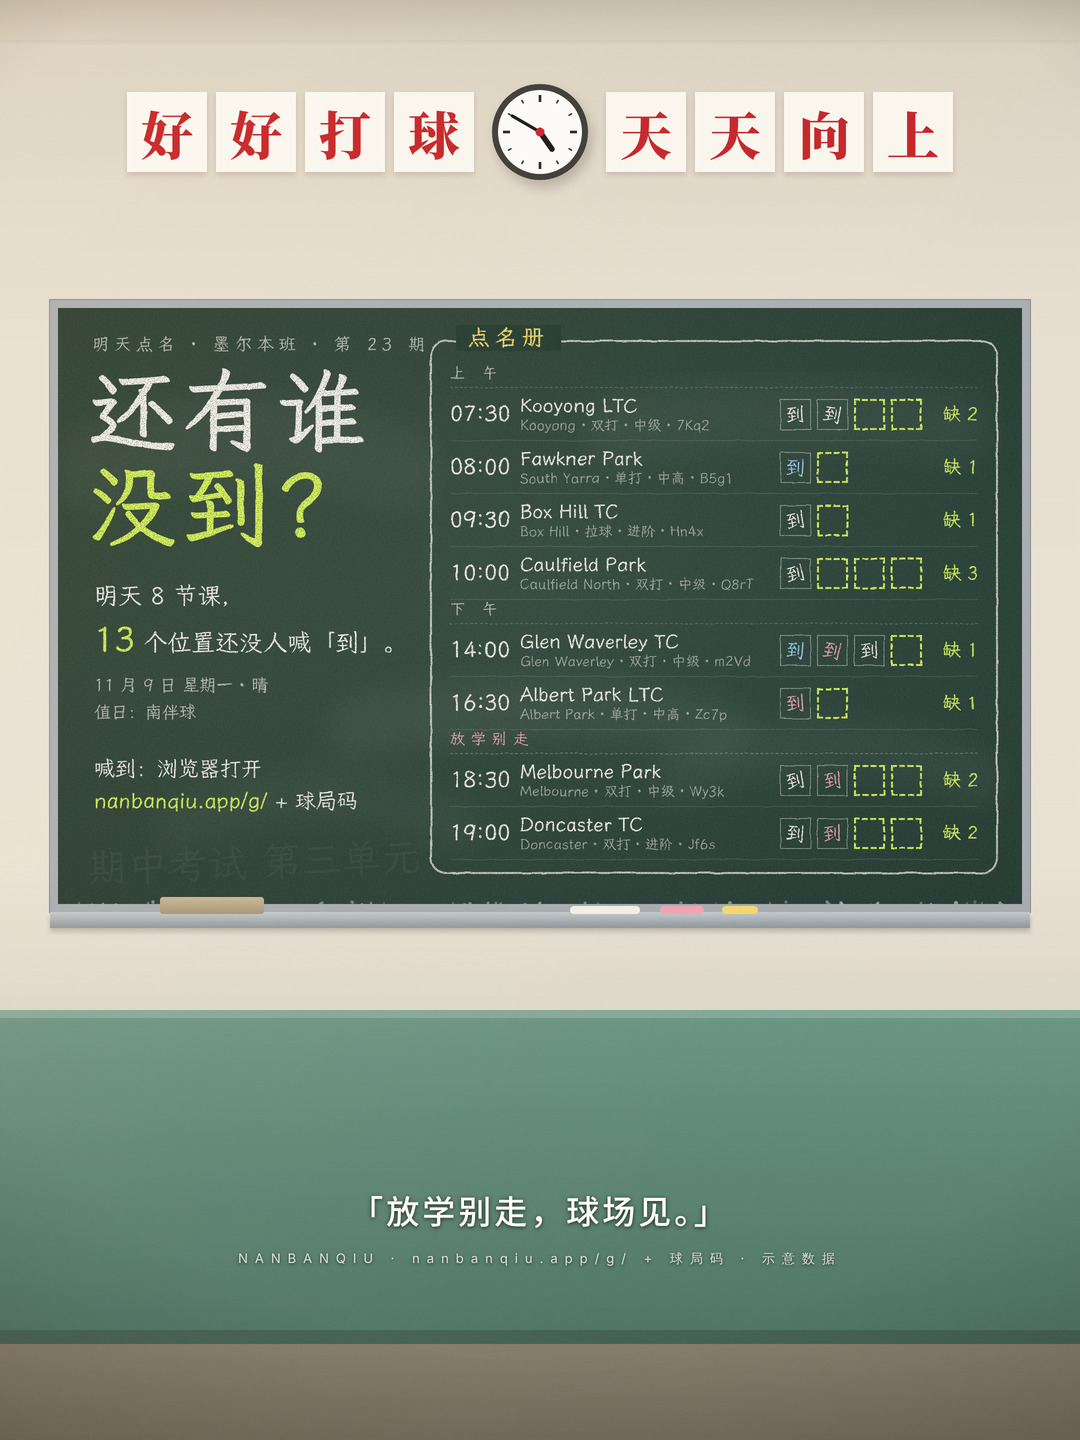
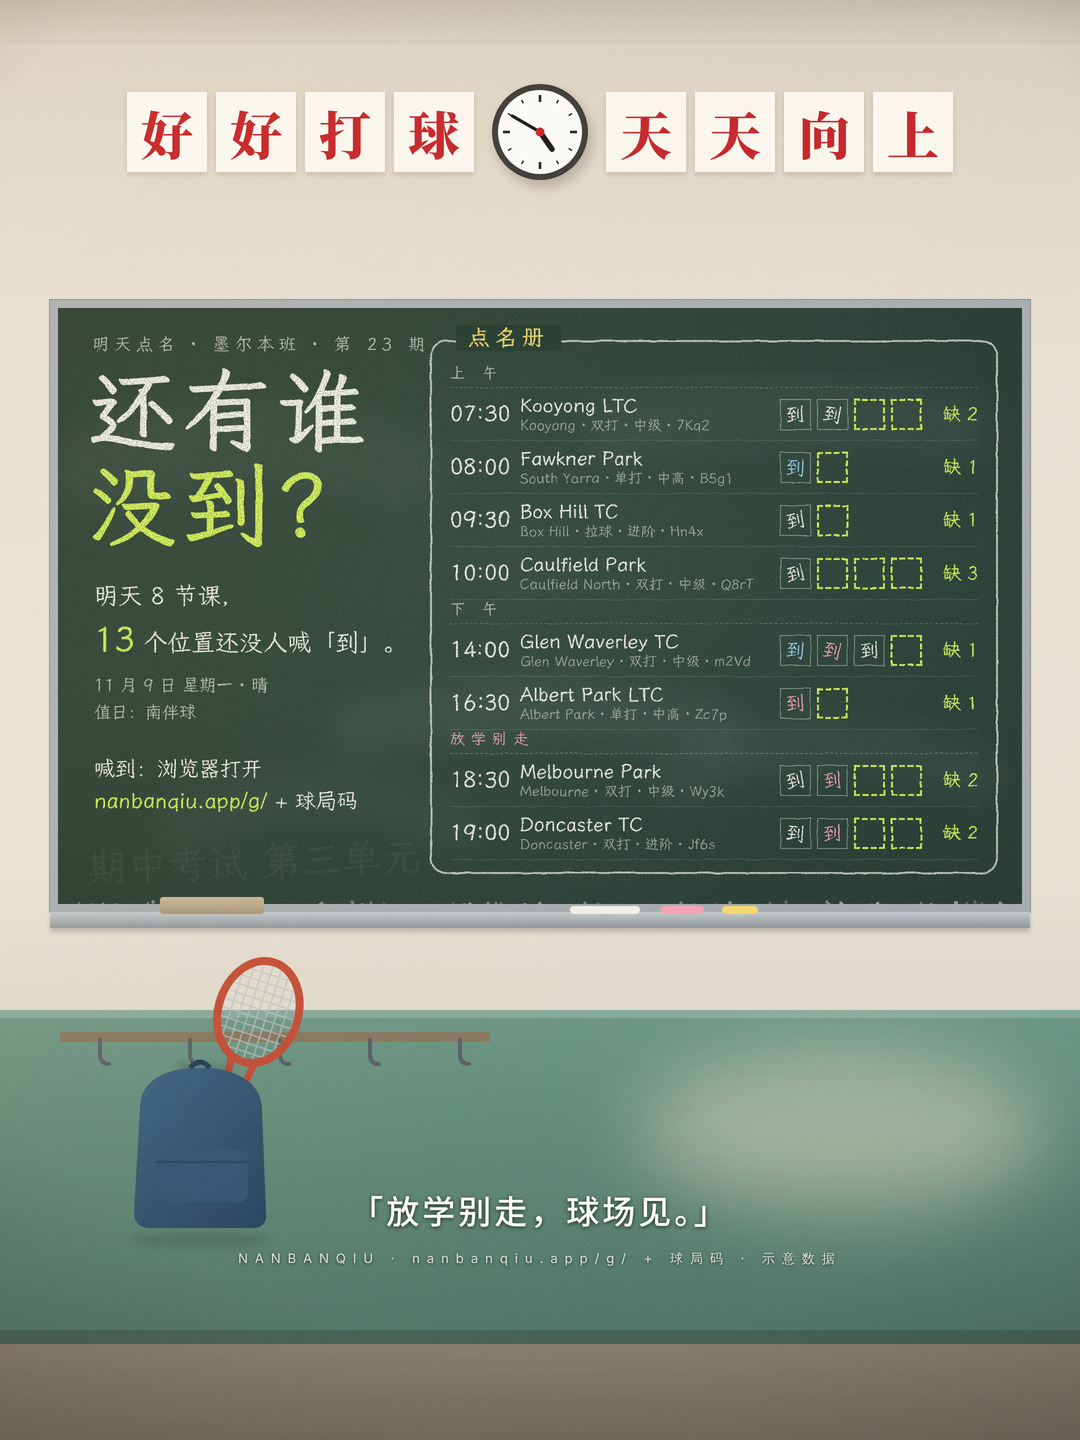
电影镜头安静版：墙裙挂钩 + 一个书包（露出拍头）+ 一小片暖光
出图检查通过。

Claude-Session: https://claude.ai/code/session_014vi3eYkzAwaNbsywDq4bQj

Changed region(s): [[0.5806, 0.7188, 0.9778, 0.8438], [0.0611, 0.6562, 0.4583, 0.875]]

diff --git a/marketing/digest/cinema.py b/marketing/digest/cinema.py
@@ -89,6 +89,20 @@ h1{{position:absolute;left:30px;top:58px;font-size:90px;line-height:1.04;letter-
 <div class="bwrap"><div class="board">
  <svg class="btex" width="964" height="596"><rect width="964" height="596" filter="url(#slate)"/><g filter="url(#sb)">{smear}</g>{ghost}{dust}</svg>
  {board_inner()}</div></div>
+<svg class="layer" width="{W}" height="{H}"><defs><filter id="pb" filterUnits="userSpaceOnUse" x="0" y="0" width="{W}" height="{H}"><feGaussianBlur stdDeviation="38"/></filter>
+ <filter id="hs" filterUnits="userSpaceOnUse" x="0" y="0" width="{W}" height="{H}"><feGaussianBlur stdDeviation="4"/></filter>
+ <linearGradient id="bagc" x1="0" y1="0" x2="1" y2="1"><stop offset="0" stop-color="#3F6687"/><stop offset="1" stop-color="#2A4A66"/></linearGradient></defs>
+ <ellipse cx="840" cy="1130" rx="200" ry="80" fill="#FFE2B0" opacity=".45" filter="url(#pb)" style="mix-blend-mode:screen"/>
+ <rect x="60" y="1032" width="430" height="10" rx="2" fill="#8C7A62"/>{''.join(f'<path d="M{x} 1040 v14 q0 10 9 10" stroke="#5B636A" stroke-width="4" fill="none" stroke-linecap="round"/>' for x in (100, 190, 280, 370, 460))}
+ <g transform="translate(246 1050) rotate(18)"><clipPath id="rkh"><ellipse cx="0" cy="-40" rx="40" ry="52"/></clipPath>
+  <g clip-path="url(#rkh)" stroke="#BFC6CB" stroke-width="1.5" opacity=".7">{''.join(f'<path d="M{x} -100 V20"/>' for x in range(-36, 40, 9))}{''.join(f'<path d="M-50 {y} H50"/>' for y in range(-88, 12, 9))}</g>
+  <ellipse cx="0" cy="-40" rx="40" ry="52" fill="none" stroke="#C94F3A" stroke-width="8"/><path d="M-12 10 L-6 60 M12 10 L6 60" stroke="#C94F3A" stroke-width="7"/><rect x="-7" y="56" width="14" height="80" rx="6" fill="#1D2226"/></g>
+ <path d="M178 1066 q 30 6 52 4" stroke="#2A2F33" stroke-width="5" fill="none" opacity=".4" filter="url(#hs)"/>
+ <path d="M190 1068 C 150 1072, 140 1090, 140 1110 L 134 1212 Q 134 1228 150 1228 L 252 1228 Q 268 1228 266 1212 L 262 1110 C 262 1090, 248 1072, 210 1068" fill="url(#bagc)"/>
+ <path d="M190 1068 q 10 -12 20 0" stroke="#24405A" stroke-width="5" fill="none"/>
+ <rect x="156" y="1150" width="92" height="52" rx="8" fill="#355A7A"/><path d="M156 1162 h92" stroke="#2A4A66" stroke-width="2"/>
+ <ellipse cx="200" cy="1240" rx="70" ry="7" fill="#000" opacity=".12" filter="url(#hs)"/>
+</svg>
 <div class="layer warm"></div><div class="layer cool"></div><div class="layer vig"></div>
 <svg class="layer grain" width="{W}" height="{H}"><filter id="gr"><feTurbulence type="fractalNoise" baseFrequency=".85" numOctaves="2" seed="11"/><feColorMatrix type="saturate" values="0"/></filter><rect width="{W}" height="{H}" filter="url(#gr)"/></svg>
 <div class="subt">「放学别走，球场见。」</div>

diff --git a/marketing/digest/README.md b/marketing/digest/README.md
@@ -7,7 +7,7 @@
 | `timetable.py` | 明日时刻表，**HTML/CSS 排版**（换行、截断、对齐交给浏览器），`dark` / `light` 两套主题 |
 | `chalk.py` | **时刻表「黑板」版**：「明天，有体育课。」——球局表写成黑板上的课程表（第一节…、午休、晚自习），右上角老师写的日期天气和「值日：南伴球」；空位是黄绿粉笔圈、已有人是涂满的白圈；粉笔颗粒用 SVG 滤镜，黑板有擦痕和上节课残影（15·30·40、Deuce），底部金属粉笔槽。字体霞鹜文楷（OFL），`DIGEST_FONTS` 指向 lxgw-wenkai-webfont 解压目录 |
 | **模板系统** | 黑板报 = **皮肤（每周一换）× 创意（每天轮换）**。皮肤在 `chalkframe.SKINS`：赶集 fair · 春日 meadow · 夜场 night · 花园 garden · 线描 doodle · 国风 guofeng，各自定板色、边框、顶部 / 底部 / 两侧装饰、标题字效（排线 / 多色 / 霓虹 / 空心 / 朱红金边）、信息框样式；装饰只放顶部、底部、四角和边框内侧，标 `class="art"`。创意在 `chalk4.py`：roll / notes / seats。`chalkframe.pick(日期)` → (皮肤, 创意)：皮肤按 ISO 周轮换，创意按星期。出图写法 `chalk4:创意@皮肤`，如 `chalk4:notes@night` |
-| `cinema.py` | **「电影镜头」版（安静版）**：从教室后排看后墙——标语 + 挂钟（4:50），嵌在墙上的哑光墨绿黑板（细铝框、擦痕、没擦净的旧字、粉笔槽和粉笔灰），绿色墙裙；光只是一层从左上来的淡暖色、没有形状，四周轻压暗；不加前景。底部字幕「放学别走，球场见。」 |
+| `cinema.py` | **「电影镜头」版（安静版）**：从教室后排看后墙——标语 + 挂钟（4:50），嵌在墙上的哑光墨绿黑板（细铝框、擦痕、没擦净的旧字、粉笔槽和粉笔灰），绿色墙裙；光只是一层从左上来的淡暖色、没有形状，四周轻压暗；墙裙上一排挂钩只挂一个书包，拍头从包后露出来，墙裙右侧一小片模糊暖光。底部字幕「放学别走，球场见。」 |
 | **教室墙场景**（`+wall`） | 黑板缩到 0.86 倍挂在教室墙中间（0.86：最小 14 号字缩放后仍 ≥ 12 号，Chromium 中文最小字号会把更小的字撑大而压行）。上方红字标语卡片 + 挂钟（指针 = 明天第一局时间），下方仿「轻声细语是一种素养」的彩色墙贴 + 书架。标语 / 墙贴每周轮换（`SLOGANS` 13 句、`STICKERS` 5 组，见 `样稿/教室墙-标语库.jpg`；卡片按字数自动缩放、以挂钟为中心对称），`+wall0` 等可指定第几句。例：`chalk4:roll@fair+wall0` |
 | `chalkframe.py` · `chalk4.py` | **立式小黑板三版（最新推荐）**，共用挂板底子（原木框、彩旗、粉笔槽）：`chalk4:roll`「还有谁没到？」点名册（「到」字笔迹各不相同、举手、晚场叫「放学别走」）· `chalk4:notes`「传纸条。」（磁铁吸在黑板上的真纸条：去吗？□去 □当然去）· `chalk4:seats`「这里有人吗？」（讲台 + 座位表，有人的桌上放着书包，空座是黄绿虚线） |
 | `chalk3.py` | **黑板报「挂板」版（最新）**：墙上挂一块带原木框和粉笔槽的墨绿黑板，顶部粉笔三角彩旗；大标题「体育课。」白描边 + 黄绿排线填色；右上彩色粉笔画的球拍和网球（排线上色、高光、速度线、星星）；下半「明日课表」框分上午 / 下午两栏，日期像标签嵌在框线上 |
